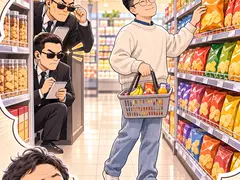
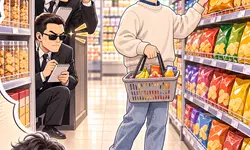
45~47화 (한/영) 추가

diff --git a/data.js b/data.js
@@ -1487,5 +1487,98 @@ window.WEBTOON = {
           { t: '(회장 아니고…\n조율자야.)', x: 560, y: 260, kind: 'inner', fs: 34 }] },
       ],
     },
+    45: {
+      coverTitle: '목회협조위원회(SPRC)는\n무엇입니까?',
+      closing: '감시가 아니라\n<em>건강한 관계</em>를 돕는\n다리입니다',
+      hook: '“교회 지붕 새면… 누가 고쳐요?” — 하민',
+      summary: ['목회협조위원회, Staff-Parish Relations Committee는 목회자와 유급 사역자, 회중, 감리사 사이에서 다리 역할을 하는 위원회입니다.', '이 위원회는 목회자와 유급 사역자들의 신상과 관련된 민감한 문제들을 다루기 때문에 비밀을 지키며 신중하게 일해야 합니다.', '목회협조위원회는 목회자를 감시하는 기구가 아니라, 목회자와 회중 사이의 건강한 관계를 돕고 교회를 세우기 위한 위원회입니다.'],
+      blocks: [
+        { cover: 'ep45_cover.jpg' },
+        { img: 'ep45_gag.jpg', bubbles: [
+          { t: '타깃,\n과자 코너 진입.', x: 20, y: 40, tx: '40%', kind: 'whisper' },
+          { t: '(…이건 아니겠지?)', x: 560, y: 260, kind: 'inner', fs: 34 },
+          { sfx: '스윽', x: 700, y: 700, fs: 60, rot: 8 }] },
+        { narr: '‘목회협조위원회’라는 이름을 듣고\n아빠가 상상한 것은…\n<b>비밀 요원</b>이었습니다.' },
+        { img: 'ep45_ask.jpg', bubbles: [
+          { t: '근데 그건 왜 그런 거예요?\n목사님 감시하는 곳이에요?', x: 20, y: 40, tx: '30%' },
+          { t: '하하, 감시 말고\n다리예요.', who: '목사님', x: 560, y: 260, tx: '60%' }] },
+        { narr: '목회협조위원회,\n<b>Staff-Parish Relations Committee</b>는\n목회자와 유급 사역자, 회중, 감리사\n사이에서 <b>다리 역할</b>을 하는\n위원회입니다.' },
+        { img: 'ep45_bridge.jpg' },
+        { flow: { label: '함께 살피는 것', title: '이런 것들을\n함께 살핍니다', steps: [
+          { k: '사역 환경', d: '목회자의 사역 환경' },
+          { k: '유급 사역자', d: '유급 사역자들의 사역' },
+          { k: '관계', d: '회중과 목회자의 관계' },
+          { k: '목회적 필요', d: '교회의 목회적 필요' }] } },
+        { img: 'ep45_door.jpg' },
+        { narr: '이 위원회는 목회자와 유급 사역자들의\n신상과 관련된 <b>민감한 문제들</b>을\n다루기 때문에\n비밀을 지키며\n<b>신중하게</b> 일해야 합니다.' },
+        { stat: { label: '목회협조위원회', big: '비밀 <em>유지</em>', d: '비밀을 지키며\n신중하게 일해야 합니다.' } },
+        { narr: '목회협조위원회는\n<b>목회자를 감시하는 기구가 아니라</b>,\n목회자와 회중 사이의\n<b>건강한 관계</b>를 돕고\n교회를 세우기 위한 위원회입니다.' },
+        { gap: 1 },
+        { img: 'ep45_end.jpg', bubbles: [
+          { t: '목사님, 커피 한잔하세요.\n저도 다리 할게요.', x: 20, y: 40, tx: '40%' },
+          { t: '든든한\n다리네요!', who: '목사님', x: 560, y: 260, tx: '60%' }] },
+      ],
+    },
+    46: {
+      coverTitle: '재단이사회는\n무엇을 합니까?',
+      closing: '건물은 부동산이 아니라\n하나님께서 맡기신\n<em>선교의 도구</em>입니다',
+      hook: '“헌금은 누가 세요? 어디에 써요?” — 엄마',
+      summary: ['재단이사회, Board of Trustees는 교회의 재산, 건물, 시설, 기물 등을 관리하고 보호하는 책임을 맡습니다.', '교회 건물은 단순한 부동산이 아닙니다. 하나님께서 맡기신 선교의 도구입니다.', '건물을 잘 관리하는 것은 단순한 유지보수가 아닙니다. 다음 세대와 지역사회를 향한 책임 있는 청지기 사역입니다.'],
+      blocks: [
+        { cover: 'ep46_cover.jpg' },
+        { img: 'ep46_gag.jpg', bubbles: [
+          { t: '아야 했어?\n반창고 붙여 줄게!', x: 20, y: 40, tx: '40%' },
+          { t: '(…그건 벽이야.)', x: 560, y: 260, kind: 'inner', fs: 34 },
+          { sfx: '똑, 똑', x: 700, y: 700, fs: 56, rot: 8 }] },
+        { narr: '비 오는 주일.\n친교실 천장에서 <b>똑, 똑</b>.\n하민이는 서둘러\n응급처치를 했습니다.' },
+        { img: 'ep46_ask.jpg', bubbles: [
+          { t: '목사님! 지붕 새면\n누가 고쳐요? Who fixes it?', x: 20, y: 40, tx: '40%' },
+          { t: '재단이사회가\n돌봐요.', who: '목사님', x: 560, y: 260, tx: '60%' }] },
+        { narr: '재단이사회, <b>Board of Trustees</b>는\n교회의 재산, 건물, 시설, 기물 등을\n관리하고 보호하는\n책임을 맡습니다.' },
+        { stat: { label: '교회 건물은', big: '선교의 <em>도구</em>', d: '교회 건물은 단순한 부동산이 아닙니다.\n하나님께서 맡기신 선교의 도구입니다.' } },
+        { img: 'ep46_fix.jpg', bubbles: [
+          { t: '여기 한 번만\n더 칠해요!', x: 20, y: 40, tx: '50%' }] },
+        { narr: '건물을 잘 관리하는 것은\n<b>단순한 유지보수가 아닙니다.</b>\n다음 세대와 지역사회를 향한\n<b>책임 있는 청지기 사역</b>입니다.' },
+        { chips: { label: '하나님 나라의 사명을 위해', title: '모든 시설은\n사명을 위해 사용됩니다', items: ['예배당', '교육 공간', '친교실', '주차장'] } },
+        { img: 'ep46_use.jpg' },
+        { narr: '1960년에 지어진 예배당(7화)은\n오늘도 누군가를 위한\n<b>선교의 자리</b>로 쓰이고 있습니다.' },
+        { gap: 1 },
+        { img: 'ep46_end.jpg', bubbles: [
+          { t: '재단이사회 출동!\nI can fix it!', x: 20, y: 40, tx: '40%', kind: 'shout', rot: -2 },
+          { t: '(…장난감 망치로?)', x: 560, y: 260, kind: 'inner', fs: 34 }] },
+      ],
+    },
+    47: {
+      coverTitle: '재정위원회는\n무엇을 합니까?',
+      closing: '거룩한 예물이기에\n<em>두렵고 정직하게</em>\n관리합니다',
+      hook: '“공천은… 선거 같은 거예요?” — 하은',
+      summary: ['재정위원회, Finance Committee는 헌금을 집계하고 관리하며, 예산을 세우고, 교회의 재정이 정직하고 책임 있게 사용되도록 살피는 위원회입니다.', '매년 예산안을 책정하여 임원회에 제출하고, 교회의 사역이 재정적으로 건강하게 이루어지도록 돕습니다.', '교회의 재정은 투명성과 신뢰가 생명입니다. 성도들의 헌금은 하나님께 드린 거룩한 예물이기에, 교회는 그것을 두렵고 정직하게 관리해야 합니다.'],
+      blocks: [
+        { cover: 'ep47_cover.jpg' },
+        { img: 'ep47_gag.jpg', bubbles: [
+          { t: '내 용돈 장부!\n사탕, 사탕, 사탕!', x: 20, y: 40, tx: '40%', kind: 'shout', rot: -2 },
+          { t: '(…지출이 한 종류네.)', x: 560, y: 260, kind: 'inner', fs: 34 },
+          { sfx: '쓱쓱', x: 700, y: 700, fs: 56, rot: 8 }] },
+        { narr: '하민이의 첫 <b>용돈 장부</b>.\n칸은 많았지만\n내용은 하나였습니다.' },
+        { img: 'ep47_ask.jpg', bubbles: [
+          { t: '예전 교회에선 잘 몰랐는데,\n헌금은 누가 세고 어디에 써요?', x: 20, y: 40, tx: '30%', fs: 36 },
+          { t: '재정위원회가\n정직하게 살펴요.', who: '목사님', x: 560, y: 260, tx: '60%' }] },
+        { narr: '재정위원회, <b>Finance Committee</b>는\n헌금을 집계하고 관리하며,\n예산을 세우고,\n교회의 재정이 <b>정직하고 책임 있게</b>\n사용되도록 살피는 위원회입니다.' },
+        { img: 'ep47_count.jpg' },
+        { flow: { label: '재정위원회', title: '이런 일을\n합니다', steps: [
+          { k: '집계와 관리', d: '헌금을 집계하고 관리합니다.' },
+          { k: '예산', d: '예산을 세웁니다.' },
+          { k: '정직한 사용', d: '교회의 재정이 정직하고 책임 있게\n사용되도록 살핍니다.' },
+          { k: '임원회 제출', d: '매년 예산안을 책정하여\n임원회에 제출합니다.' }] } },
+        { img: 'ep47_budget.jpg' },
+        { narr: '교회의 사역이\n<b>재정적으로 건강하게</b>\n이루어지도록 돕습니다.' },
+        { stat: { label: '교회의 재정은', big: '투명성과 <em>신뢰</em>', d: '교회의 재정은\n투명성과 신뢰가 생명입니다.' } },
+        { narr: '성도들의 헌금은\n<b>하나님께 드린 거룩한 예물</b>이기에,\n교회는 그것을\n<b>두렵고 정직하게</b> 관리해야 합니다.\n\n20화에서 하은이가 드린\n동전 하나까지도요.' },
+        { gap: 1 },
+        { img: 'ep47_end.jpg', bubbles: [
+          { t: '여기 ‘감사’ 칸도\n만들어 볼까?', x: 20, y: 40, tx: '40%' },
+          { t: '감사…\n사탕 감사!', x: 560, y: 260, tx: '60%', kind: 'shout', rot: 3 }] },
+      ],
+    },
   },
 };

diff --git a/data_en.js b/data_en.js
@@ -1102,5 +1102,76 @@ window.WEBTOON_EN = {
         { bubbles: [{ t: "You do research,\nyou do design!" }, { t: "(Not the boss…\nthe coordinator.)" }] },
       ],
     },
+    45: {
+      coverTitle: "What Is the SPRC?",
+      closing: "Not surveillance,\nbut a bridge for\n<em>healthy relationships</em>",
+      hook: "“If the church roof leaks… who fixes it?” — Hamin",
+      summary: ["The Staff-Parish Relations Committee (SPRC) serves as a bridge between the pastor, paid staff, the congregation, and the District Superintendent.", "Because it handles sensitive personal matters of the pastor and staff, it must work carefully and keep confidentiality.", "The SPRC isn't there to watch over the pastor. It exists to support a healthy relationship between pastor and congregation and to build up the church."],
+      blocks: [
+        null,
+        { bubbles: [{ t: "Target entering\nthe snack aisle." }, { t: "(…It's not like this, right?)" }, { sfx: "sneak" }] },
+        { narr: "When Dad heard\n“Staff-Parish Relations,”\nhe pictured…\n<b>secret agents</b>." },
+        { bubbles: [{ t: "Wait, but why is that?\nDo they keep an eye on you?" }, { t: "Haha, not an eye.\nA bridge.", who: "Pastor Park" }] },
+        { narr: "The <b>Staff-Parish Relations\nCommittee</b> serves as <b>a bridge</b>\nbetween the pastor, paid staff,\nthe congregation, and\nthe District Superintendent." },
+        null,
+        { flow: { label: "What It Looks After", title: "Together\nIt Looks After", steps: [
+          { k: "Ministry Setting", d: "The pastor's ministry setting" },
+          { k: "Paid Staff", d: "The work of paid staff" },
+          { k: "Relationship", d: "The relationship between\ncongregation and pastor" },
+          { k: "Pastoral Needs", d: "The church's pastoral needs" }] } },
+        null,
+        { narr: "Because it handles\n<b>sensitive personal matters</b>\nof the pastor and staff,\nit must keep confidentiality\nand work <b>carefully</b>." },
+        { stat: { label: "SPRC", big: "Kept <em>Private</em>", d: "It must keep confidentiality\nand work carefully." } },
+        { narr: "The SPRC is <b>not there\nto watch over the pastor</b>.\nIt supports a <b>healthy relationship</b>\nbetween pastor and congregation\nand builds up the church." },
+        null,
+        { bubbles: [{ t: "Pastor, have a coffee.\nI'll be a bridge too." }, { t: "What a\nsturdy bridge!", who: "Pastor Park" }] },
+      ],
+    },
+    46: {
+      coverTitle: "What Do the\nTrustees Do?",
+      closing: "A building isn't just property.\nIt's <em>a tool for mission</em>\nGod has entrusted to us",
+      hook: "“Who counts the offering? Where does it go?” — Mom",
+      summary: ["The Board of Trustees is responsible for managing and protecting the church's property, buildings, facilities, and equipment.", "A church building isn't just real estate. It's a tool for mission that God has entrusted to us.", "Caring for the building isn't just maintenance. It's responsible stewardship for the next generation and the community."],
+      blocks: [
+        null,
+        { bubbles: [{ t: "Does it hurt?\nI'll put a Band-Aid on!" }, { t: "(…That's a wall.)" }, { sfx: "drip, drip", x: 740, y: 470, fs: 48, rot: 8 }] },
+        { narr: "A rainy Sunday.\n<b>Drip, drip</b> from the\nfellowship hall ceiling.\nHamin rushed in with first aid." },
+        { bubbles: [{ t: "Pastor! If the roof leaks,\nwho fixes it? 누가 고쳐요?" }, { t: "The Trustees\ntake care of it.", who: "Pastor Park" }] },
+        { narr: "The <b>Board of Trustees</b>\nmanages and protects\nthe church's property, buildings,\nfacilities, and equipment." },
+        { stat: { label: "Our Church Building", big: "Mission <em>Tool</em>", d: "A church building isn't just real estate.\nIt's a tool for mission God entrusted to us." } },
+        { bubbles: [{ t: "One more coat\nright here!" }] },
+        { narr: "Caring for the building\n<b>isn't just maintenance</b>.\nIt's <b>responsible stewardship</b>\nfor the next generation\nand the community." },
+        { chips: { label: "For God's Kingdom", title: "Every Space\nServes the Mission", items: ["Sanctuary", "Classrooms", "Fellowship Hall", "Parking Lot"] } },
+        null,
+        { narr: "Our sanctuary, built in 1960\n(Episode 7), is still used today\nas <b>a place of mission</b>\nfor someone." },
+        null,
+        { bubbles: [{ t: "Trustees, go!\n내가 고칠게!" }, { t: "(…With a toy hammer?)" }] },
+      ],
+    },
+    47: {
+      coverTitle: "What Does the\nFinance Committee Do?",
+      closing: "Because they are holy offerings,\nwe handle them\n<em>with reverence and honesty</em>",
+      hook: "“Nominations… is that like an election?” — Haeun",
+      summary: ["The Finance Committee counts and manages the offerings, sets the budget, and makes sure the church's finances are used honestly and responsibly.", "Each year it prepares a budget and submits it to the Church Council, helping the church's ministry stay financially healthy.", "Transparency and trust are the lifeblood of church finances. Our offerings are holy gifts given to God, so the church must handle them with reverence and honesty."],
+      blocks: [
+        null,
+        { bubbles: [{ t: "My allowance book!\nCandy, candy, candy!" }, { t: "(…Only one kind of spending.)" }, { sfx: "scribble" }] },
+        { narr: "Hamin's very first\n<b>allowance book</b>.\nLots of columns,\nbut only one item." },
+        { bubbles: [{ t: "I never really knew at my old church…\nWho counts the offering? Where does it go?" }, { t: "The Finance Committee\nlooks after it honestly.", who: "Pastor Park" }] },
+        { narr: "The <b>Finance Committee</b>\ncounts and manages the offerings,\nsets the budget, and makes sure\nthe church's finances are used\n<b>honestly and responsibly</b>." },
+        null,
+        { flow: { label: "Finance Committee", title: "This Is\nWhat It Does", steps: [
+          { k: "Count & Manage", d: "Counts and manages the offerings." },
+          { k: "Budget", d: "Sets the budget." },
+          { k: "Honest Use", d: "Makes sure finances are used\nhonestly and responsibly." },
+          { k: "To the Council", d: "Prepares a budget each year\nand submits it to the Church Council." }] } },
+        null,
+        { narr: "It helps the church's ministry\nstay <b>financially healthy</b>." },
+        { stat: { label: "Church Finances", big: "Open & <em>Trusted</em>", d: "Transparency and trust are\nthe lifeblood of church finances." } },
+        { narr: "Our offerings are\n<b>holy gifts given to God</b>,\nso the church must handle them\n<b>with reverence and honesty</b>.\n\nEven the single coin Haeun gave\nback in Episode 20." },
+        null,
+        { bubbles: [{ t: "Shall we add a\n“Thank You” column?" }, { t: "Thank You…\nfor candy!" }] },
+      ],
+    },
   },
 };

diff --git a/index.html b/index.html
@@ -235,9 +235,9 @@ button.right{border-color:#3E9B4F!important;background:#EAF6EC!important}button.
 <body>
 <div id="prog"></div><a id="fnext" href="#" style="display:none"></a>
 <div class="app wrap" id="app"></div>
-<script src="data.js?v=202611071116"></script>
-<script src="data_en.js?v=202611071116"></script>
-<script src="season.js?v=202611071116"></script>
+<script src="data.js?v=202611072138"></script>
+<script src="data_en.js?v=202611072138"></script>
+<script src="season.js?v=202611072138"></script>
 <script>
 const K = window.WEBTOON, EN = window.WEBTOON_EN;
 const QS = new URLSearchParams(location.search);
